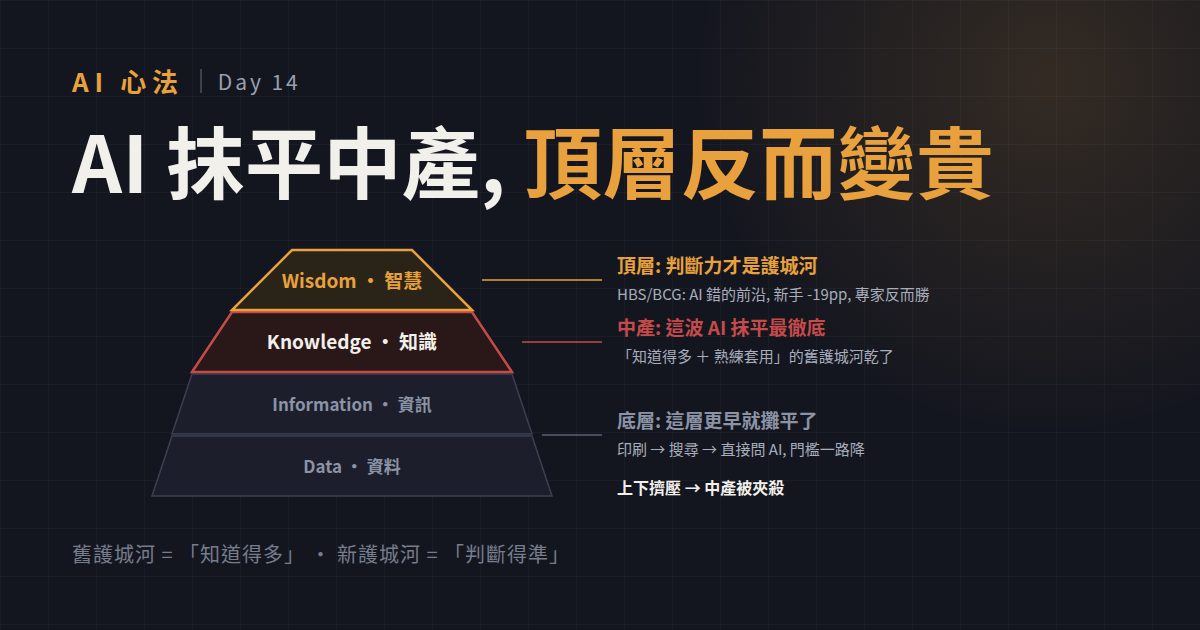
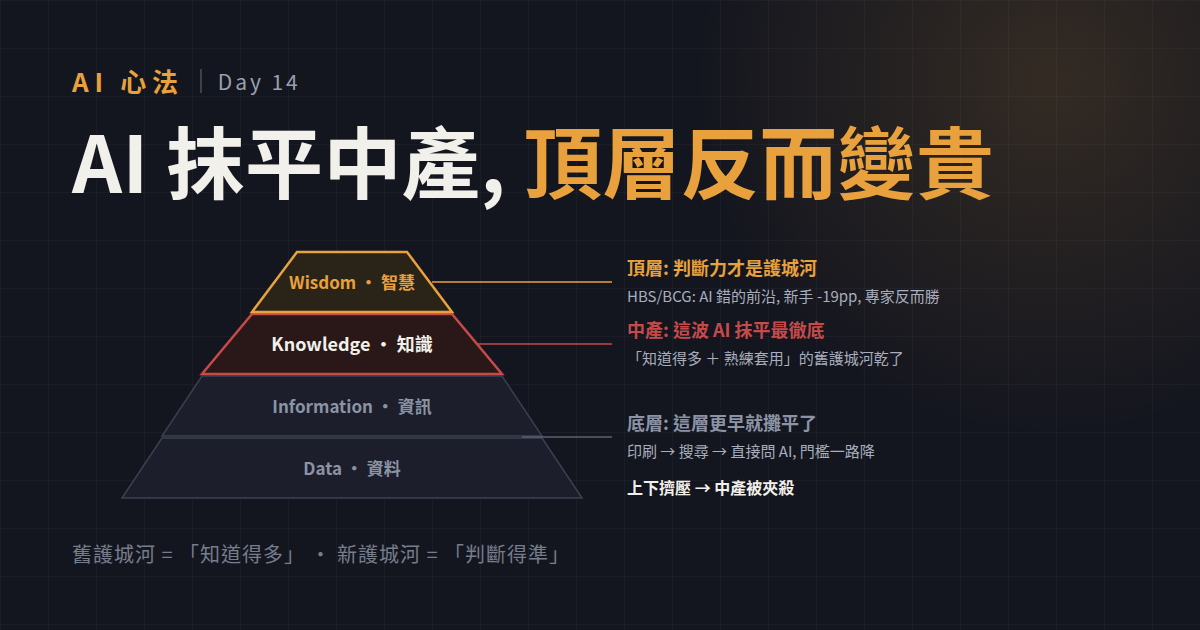
Day 14 cover: 金字塔改成尖一點的形狀
原本 4 層梯形接近直筒, 太像 "疊盤子". 縮小 top 寬度、加寬 bottom,
斜面約 54 度, 更像 pyramid.

Base 460 wide → top 110 wide (原本 400 → 240, 差異太小).

Changed region(s): [[0.1542, 0.3921, 0.8017, 0.6032], [0.1233, 0.6333, 0.74, 0.7841], [0.1233, 0.7841, 0.4625, 0.8143]]

diff --git a/05-notes/ironman/assets/cover-day14.html b/05-notes/ironman/assets/cover-day14.html
@@ -26,42 +26,42 @@ text{font-family:"Noto Sans CJK TC",sans-serif}
   </div>
   <div class="chartwrap">
   <svg width="1056" height="280" viewBox="0 0 1056 280">
-    <!-- DIKW pyramid, left side -->
+    <!-- DIKW pyramid, sharp slope for pyramid feel -->
 
     <!-- Data (bottom, widest, grey) -->
-    <polygon points="80,268 480,268 460,208 100,208" fill="#1c1f2b" stroke="#3a4152" stroke-width="1.5"/>
-    <text x="280" y="245" fill="#8b93a5" font-size="17" font-weight="700" text-anchor="middle">Data · 資料</text>
+    <polygon points="50,270 510,270 470,210 90,210" fill="#1c1f2b" stroke="#3a4152" stroke-width="1.5"/>
+    <text x="280" y="247" fill="#8b93a5" font-size="17" font-weight="700" text-anchor="middle">Data · 資料</text>
 
     <!-- Information (grey) -->
-    <polygon points="100,206 460,206 440,146 120,146" fill="#1c1f2b" stroke="#3a4152" stroke-width="1.5"/>
-    <text x="280" y="183" fill="#8b93a5" font-size="17" font-weight="700" text-anchor="middle">Information · 資訊</text>
+    <polygon points="90,208 470,208 430,148 130,148" fill="#1c1f2b" stroke="#3a4152" stroke-width="1.5"/>
+    <text x="280" y="185" fill="#8b93a5" font-size="17" font-weight="700" text-anchor="middle">Information · 資訊</text>
 
-    <!-- Knowledge (middle, danger red — 中產被抹平) -->
-    <polygon points="120,144 440,144 400,84 160,84" fill="#2a1818" stroke="#c74a4a" stroke-width="2.5"/>
-    <text x="280" y="121" fill="#f2f0ea" font-size="19" font-weight="900" text-anchor="middle">Knowledge · 知識</text>
+    <!-- Knowledge (danger red — 中產被抹平) -->
+    <polygon points="130,146 430,146 380,86 180,86" fill="#2a1818" stroke="#c74a4a" stroke-width="2.5"/>
+    <text x="280" y="123" fill="#f2f0ea" font-size="18" font-weight="900" text-anchor="middle">Knowledge · 知識</text>
 
     <!-- Wisdom (top, gold — 頂層變貴) -->
-    <polygon points="160,82 400,82 340,22 220,22" fill="#2a2418" stroke="#e8a13c" stroke-width="2.5"/>
-    <text x="280" y="60" fill="#e8a13c" font-size="19" font-weight="900" text-anchor="middle">Wisdom · 智慧</text>
+    <polygon points="180,84 380,84 335,24 225,24" fill="#2a2418" stroke="#e8a13c" stroke-width="2.5"/>
+    <text x="280" y="61" fill="#e8a13c" font-size="17" font-weight="900" text-anchor="middle">Wisdom · 智慧</text>
 
     <!-- Right side annotations -->
     <!-- Wisdom annotation -->
-    <line x1="410" y1="52" x2="530" y2="52" stroke="#e8a13c" stroke-width="1.5"/>
-    <text x="545" y="45" fill="#e8a13c" font-size="19" font-weight="900">頂層: 判斷力才是護城河</text>
-    <text x="545" y="72" fill="#a8aebd" font-size="15">HBS/BCG: AI 錯的前沿, 新手 -19pp, 專家反而勝</text>
+    <line x1="360" y1="54" x2="540" y2="54" stroke="#e8a13c" stroke-width="1.5"/>
+    <text x="555" y="47" fill="#e8a13c" font-size="18" font-weight="900">頂層: 判斷力才是護城河</text>
+    <text x="555" y="74" fill="#a8aebd" font-size="15">HBS/BCG: AI 錯的前沿, 新手 -19pp, 專家反而勝</text>
 
     <!-- Knowledge annotation -->
-    <line x1="450" y1="114" x2="530" y2="114" stroke="#c74a4a" stroke-width="1.5"/>
-    <text x="545" y="107" fill="#c74a4a" font-size="19" font-weight="900">中產: 這波 AI 抹平最徹底</text>
-    <text x="545" y="134" fill="#a8aebd" font-size="15">「知道得多 ＋ 熟練套用」的舊護城河乾了</text>
+    <line x1="405" y1="116" x2="540" y2="116" stroke="#c74a4a" stroke-width="1.5"/>
+    <text x="555" y="109" fill="#c74a4a" font-size="18" font-weight="900">中產: 這波 AI 抹平最徹底</text>
+    <text x="555" y="136" fill="#a8aebd" font-size="15">「知道得多 ＋ 熟練套用」的舊護城河乾了</text>
 
     <!-- Info + Data grouped annotation -->
-    <line x1="470" y1="207" x2="530" y2="207" stroke="#5a6275" stroke-width="1.5"/>
-    <text x="545" y="200" fill="#8b93a5" font-size="19" font-weight="700">底層: 這層更早就攤平了</text>
-    <text x="545" y="227" fill="#a8aebd" font-size="15">印刷 → 搜尋 → 直接問 AI, 門檻一路降</text>
+    <line x1="450" y1="209" x2="540" y2="209" stroke="#5a6275" stroke-width="1.5"/>
+    <text x="555" y="202" fill="#8b93a5" font-size="18" font-weight="700">底層: 這層更早就攤平了</text>
+    <text x="555" y="229" fill="#a8aebd" font-size="15">印刷 → 搜尋 → 直接問 AI, 門檻一路降</text>
 
     <!-- Summary caption at bottom -->
-    <text x="545" y="266" fill="#f2f0ea" font-size="16" font-weight="700">上下擠壓 → 中產被夾殺</text>
+    <text x="555" y="266" fill="#f2f0ea" font-size="16" font-weight="700">上下擠壓 → 中產被夾殺</text>
   </svg>
   </div>
   <div class="foot">舊護城河 = 「知道得多」  ·  新護城河 = 「判斷得準」</div>
